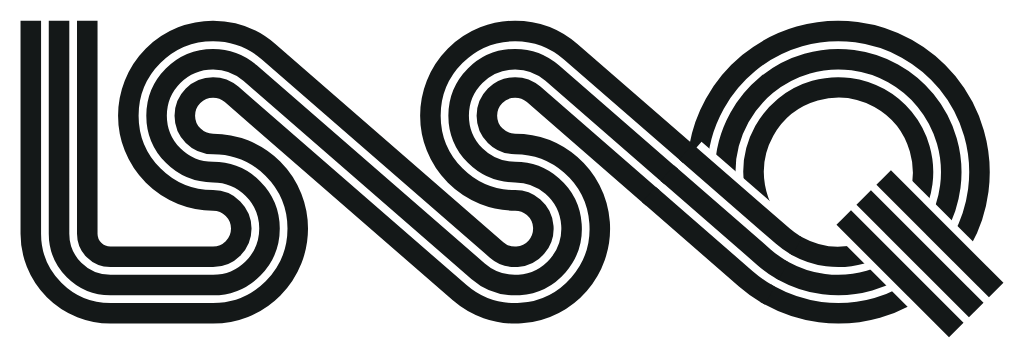
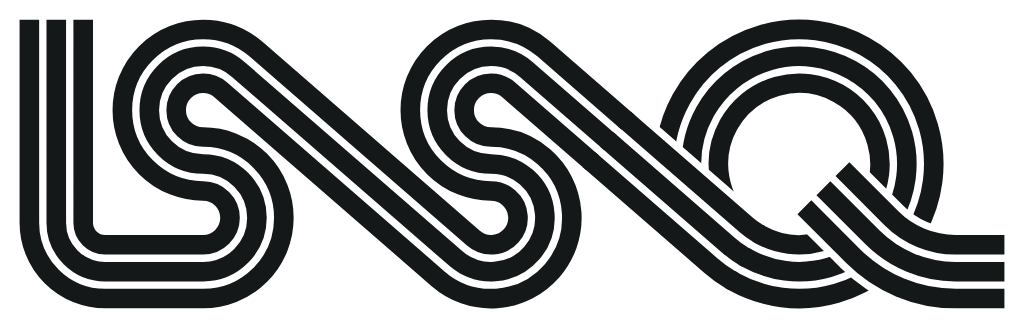
Polish mark F: clean Q end, curved tail, glint ending (#5)
From Steve's notes on F:
- The bowl's end now stops on one straight edge under the link, so the
  pink stripe no longer ends in a stepped point.
- The Q's tail crosses the bowl at 45 degrees, then curves down to run
  along the baseline, so the word ends the way the L starts.
- The bowl draws in completely before the tail sweeps over it. The cut
  under the tail now follows each tail stripe as it draws.
- Soft top-to-bottom gradients on each stripe in the color files.
- A glint runs across the finished word and a star twinkles on the
  tail's end, so it's clear the animation is over.
- Faster: each stripe writes the word in 2.7s (was 3.6s), about 5s total.

diff --git a/prototypes/logo-marks/index.html b/prototypes/logo-marks/index.html
@@ -312,14 +312,14 @@ footer p{margin:0;color:var(--muted)}
 
   <section class="opt" id="stripes">
     <div class="stage wordmark">
-      <img data-replay src="../../brand/marks/f-stripes-animated.svg" alt="Stripe Letters: LSSQ written in one continuous ribbon of pink, yellow and cyan stripes, each letter flowing into the next">
+      <img data-replay src="../../brand/marks/f-stripes-animated.svg" alt="Stripe Letters: LSSQ written in one continuous ribbon of pink, yellow and cyan stripes, each letter flowing into the next, with the Q's tail curving out along the baseline">
       <button type="button" class="replay">Play it again</button>
     </div>
     <div class="info">
       <p class="letter">Option F &middot; New</p>
       <h2>Stripe Letters</h2>
-      <p class="idea">LSSQ written in one unbroken ribbon of three stripes, like a 70s racing stripe that never lifts off. Each stripe writes the whole word in turn.</p>
-      <p>There's no outline: where the Q crosses itself, the ribbon underneath is cut away, so it works in one ink too. The stripes stay parallel through every curve, so the same set works on its own as dividers, borders and corners. It's a wordmark, so A still covers avatars and the browser tab.</p>
+      <p class="idea">LSSQ written in one unbroken ribbon of three stripes, like a 70s racing stripe that never lifts off. Each stripe writes the whole word in turn, then a glint runs across it.</p>
+      <p>There's no outline: where the Q crosses itself, the ribbon underneath is cut away, so it works in one ink too. The Q's tail curves down onto the baseline, so the word ends the way the L starts. The stripes stay parallel through every curve, so the same set works on its own as dividers, borders and corners. It's a wordmark, so A still covers avatars and the browser tab.</p>
       <ul class="sizes" aria-label="The same stripes as decoration">
         <li><img class="band" src="../../brand/marks/f-stripe-band.svg" alt=""><small>Divider</small></li>
         <li><img class="corner" src="../../brand/marks/f-stripe-corner.svg" alt=""><small>Corner</small></li>

diff --git a/presentations/2026-11-04-logo-marks/index.html b/presentations/2026-11-04-logo-marks/index.html
@@ -289,7 +289,7 @@ h2 { font-size: 52px; font-weight: 900; line-height: 1.04; text-wrap: balance; }
 
       <section class="slide mark wordmark" aria-label="Slide 8 of 9: Option F, Stripe Letters" hidden>
         <div class="panel">
-          <img class="big wide" data-replay src="../../brand/marks/f-stripes-animated.svg" alt="Stripe Letters: LSSQ written in one continuous ribbon of pink, yellow and cyan stripes, each letter flowing into the next">
+          <img class="big wide" data-replay src="../../brand/marks/f-stripes-animated.svg" alt="Stripe Letters: LSSQ written in one continuous ribbon of pink, yellow and cyan stripes, each letter flowing into the next, with the Q's tail curving out along the baseline">
           <button type="button" class="replay">Play it again</button>
           <ul class="deco" aria-label="The same stripes as decoration">
             <li><img class="band" src="../../brand/marks/f-stripe-band.svg" alt=""><small>Divider</small></li>
@@ -301,7 +301,7 @@ h2 { font-size: 52px; font-weight: 900; line-height: 1.04; text-wrap: balance; }
           <p class="kicker sun">Option F &middot; New</p>
           <h2>Stripe Letters</h2>
           <p class="idea">LSSQ written in one unbroken ribbon of three stripes, like a 70s racing stripe that never lifts off.</p>
-          <div class="point"><p class="label cyan">Why it could work</p><p>The most retro of the six. Each stripe writes the whole word in turn, it holds up in one ink, and the same stripes make borders and dividers.</p></div>
+          <div class="point"><p class="label cyan">Why it could work</p><p>The most retro of the six. Each stripe writes the word in turn, then a glint runs across it. It holds up in one ink, and the same stripes make borders and dividers.</p></div>
           <div class="point"><p class="label pink">Watch out</p><p>It's a wordmark, so it's too wide for avatars. Pair it with A there.</p></div>
         </div>
       </section>

diff --git a/tools/make-stripes.py b/tools/make-stripes.py
@@ -5,9 +5,9 @@ The whole word is one centre line made of straight runs and circular turns:
 down the L, along the baseline into the first S, out of its top and straight
 down into the second S, the same again into the Q, and round the bowl. Every
 stripe is that centre line offset to one side, so the stripes stay parallel
-through every curve. Where one part of the ribbon passes over another, the
-part underneath is cut away, so the mark needs no outline and works in one
-colour.
+through every curve. The Q's tail is a second, short ribbon that sweeps out
+over the bowl. Where one part passes over another, the part underneath is cut
+away, so the mark needs no outline and works in one colour.
 Run from anywhere:
 
     python3 tools/make-stripes.py
@@ -23,8 +23,12 @@ from math import cos, sin, tan, radians, pi
 from pathlib import Path
 
 INK = "#141818"
+CREAM = "#FFF6E8"
 # Stripe colours, from the right-hand side of the ribbon to the left.
 COLORS = ["#E2397A", "#F2C230", "#36E2E6"]
+# In colour, each stripe fades from a lighter tint at the top of the letters to
+# a deeper shade at the baseline, like an airbrushed 80s sign.
+SHADES = [("#E96598", "#D31F64"), ("#F5D060", "#EAB40F"), ("#63E9EC", "#1BD4D8")]
 W, GAP = 8, 3                    # stripe width and the clear gap between stripes
 PITCH = W + GAP
 HALF = (len(COLORS) * W + (len(COLORS) - 1) * GAP) / 2   # half the ribbon's width
@@ -34,8 +38,9 @@ R = H / 4                        # S bowl radius
 CORNER = 20                      # L corner radius
 Q = H / 2                        # Q bowl radius
 
-DRAW, STAGGER = 3.6, 0.6         # seconds for one stripe to write the word, and between stripes
-TAILT = 0.6                      # seconds for the Q's tail, once a stripe reaches the end
+DRAW, STAGGER = 2.7, 0.4         # seconds for one stripe to write the word, and between stripes
+TAILT, TAILGAP = 0.45, 0.07      # seconds for each stripe of the Q's tail, and between them
+SHINE, SPARK = 0.8, 0.7          # the glint across the finished word, and the star that ends it
 
 
 def left(h):
@@ -159,17 +164,20 @@ xS2 = xS1 + 2 * R / tan(radians(LINK / 2))
 DIAG = 2 * R * (1 + cos(radians(LINK))) / sin(radians(LINK))      # S to S
 QDIAG = ((Q - R) + (Q + R) * cos(radians(LINK))) / sin(radians(LINK))   # S to Q
 xQ = xS2 + (R + Q) * sin(radians(LINK)) + QDIAG * cos(radians(LINK))
-LEAD = 50                        # how much of the link into the Q passes over the bowl's end
+LEAD = 66                        # how much of the link into the Q passes over the bowl's end
 
 
 def word():
-    """The word as one stroke, and the parts of it that pass over another part."""
+    """The word as one stroke, the part of it that passes over the bowl's end,
+    and the part of the link cut away under it."""
     s = (Stroke(xL, -HALF, 90)
          .run(H - CORNER + HALF).turn(CORNER, 90, "L").run(xS1 - xL - CORNER)   # L
          .turn(R, 180, "L").turn(R, 180 + LINK, "R")                            # first S
          .run(DIAG)
          .turn(R, 180 + LINK, "L").turn(R, 180 + LINK, "R")                     # second S
          .run(QDIAG - LEAD))
+    # The cut starts far enough back that the bowl's end meets one straight edge
+    # all the way across, and the copy drawn on top covers both ends of the cut.
     a = s.mark()
     s.run(2)
     k0 = s.mark()
@@ -178,10 +186,18 @@ def word():
     s.turn(Q, 2, "L")
     b = s.mark()
     s.turn(Q, 348, "L")          # round the bowl, ending tucked under the link
-    ux, uy = cos(radians(45)), sin(radians(45))
-    tail = Stroke(xQ + 14 * ux, Q + 14 * uy, 45).run(62)
-    return s, (a, b), (k0, k1), tail
+    return s, (a, b), (k0, k1)
 
+
+TAIL_R, TAIL_OUT = 48, 20        # the tail's turn radius, and how far it runs on along the baseline
+
+
+def tail():
+    """The Q's tail: out of the bowl's counter and across it at 45 degrees, then
+    curving down to run along the baseline, so the word ends the way the L starts."""
+    c = cos(radians(45))
+    run = (H - Q - 14 * c - TAIL_R * (1 - c)) / c      # lands the tail on the baseline
+    return Stroke(xQ + 14 * c, Q + 14 * c, 45).run(run).turn(TAIL_R, 45, "L").run(TAIL_OUT)
 
 # A hidden path sits a little past the end of its dash, so no sliver of it shows
 # at either end. The gap in the dash pattern is longer than any path.
@@ -201,60 +217,113 @@ def keyframes(name, lo=0.0, hi=1.0, steps=30):
     return f"@keyframes {name}{{{''.join(frames)}}}"
 
 
+def star(x, y, r):
+    """A four-pointed glint centred on (x, y)."""
+    k = r * 0.16
+    return (f"M{x:.2f} {y - r:.2f}Q{x + k:.2f} {y - k:.2f} {x + r:.2f} {y:.2f}"
+            f"Q{x + k:.2f} {y + k:.2f} {x:.2f} {y + r:.2f}Q{x - k:.2f} {y + k:.2f} {x - r:.2f} {y:.2f}"
+            f"Q{x - k:.2f} {y - k:.2f} {x:.2f} {y - r:.2f}Z")
+
+
 def wordmark(animated=False, mono=False):
-    s, (a, b), (k0, k1), tail = word()
+    s, (a, b), (k0, k1) = word()
+    t = tail()
     link = s.slice(a, b)
-    pts = [p for d in (-HALF, HALF) for stroke in (s, tail) for p in stroke.points(d)]
+    pts = [p for d in (-HALF, HALF) for stroke in (s, t) for p in stroke.points(d)]
     pad = 8
     x0, y0 = min(p[0] for p in pts) - pad, min(p[1] for p in pts) - pad
     x1, y1 = max(p[0] for p in pts) + pad, max(p[1] for p in pts) + pad
     box = f'x="{x0:.2f}" y="{y0:.2f}" width="{x1 - x0:.2f}" height="{y1 - y0:.2f}"'
-    colors = [INK] * len(COLORS) if mono else COLORS
     dl = ' pathLength="1"' if animated else ""
-    cut = f'stroke="#000" stroke-width="{2 * (HALF + GAP):g}"'
+    n = len(COLORS)
+
+    defs = []
+    if mono:
+        paints = [INK] * n
+    else:
+        paints = [f"url(#f-g{i})" for i in range(n)]
+        for i, (base, (light, deep)) in enumerate(zip(COLORS, SHADES)):
+            defs.append(f'    <linearGradient id="f-g{i}" gradientUnits="userSpaceOnUse" x1="0" y1="{-HALF:g}" x2="0" y2="{H + HALF:g}">'
+                        f'<stop offset="0" stop-color="{light}"/><stop offset=".45" stop-color="{base}"/>'
+                        f'<stop offset="1" stop-color="{deep}"/></linearGradient>')
 
     # The ribbon is drawn once under a mask that cuts it away wherever another
-    # part passes over it, then those parts are drawn again on top.
-    body = [
-        "  <defs>",
-        f'    <mask id="f-under" maskUnits="userSpaceOnUse" {box}>',
-        f'      <rect {box} fill="#fff"/>',
-        f'      <path class="cut c0"{dl} d="{s.slice(k0, k1).path()}" {cut}/>',
-        f'      <path class="cut c1"{dl} d="{tail.path()}" {cut}/>',
-        "    </mask>",
-        "  </defs>",
-        '  <g mask="url(#f-under)">',
-    ]
-    for i, (color, d) in enumerate(zip(colors, offsets())):
-        body.append(f'    <path class="st s{i}"{dl} d="{s.path(d)}" stroke="{color}" stroke-width="{W:g}"/>')
-    body.append("  </g>")
-    for part, stroke in (("ov", link), ("tl", tail)):
-        for i, (color, d) in enumerate(zip(colors, offsets())):
-            body.append(f'  <path class="st {part} s{i}"{dl} d="{stroke.path(d)}" stroke="{color}" stroke-width="{W:g}"/>')
+    # part passes over it, then those parts are drawn again on top. The tail's
+    # cut follows each of its stripes, so the bowl stays whole until the tail
+    # is drawn over it.
+    defs += [f'    <mask id="f-under" maskUnits="userSpaceOnUse" {box}>',
+             f'      <rect {box} fill="#fff"/>',
+             f'      <path class="cut c0"{dl} d="{s.slice(k0, k1).path()}" stroke="#000" stroke-width="{2 * (HALF + GAP):g}"/>']
+    for i, d in enumerate(offsets()):
+        defs.append(f'      <path class="cut tl s{i}"{dl} d="{t.path(d)}" stroke="#000" stroke-width="{W + 2 * GAP:g}"/>')
+    defs.append("    </mask>")
+
+    def stripes(part, stroke, paint=None, indent="  "):
+        cls = f"st {part} " if part else "st "
+        return [f'{indent}<path class="{cls}s{i}"{dl} d="{stroke.path(d)}" stroke="{paint or paints[i]}" stroke-width="{W:g}"/>'
+                for i, d in enumerate(offsets())]
+
+    body = ['  <g mask="url(#f-under)">', *stripes("", s, indent="    "), "  </g>",
+            *stripes("ov", link), *stripes("tl", t)]
 
     style = ""
     if animated:
-        # Each stripe writes the whole word, then the Q's tail, one stripe after
-        # another. The copy of the link over the Q is drawn in step with the pen.
-        rules = [f".st,.cut{{stroke-dasharray:1 2;stroke-dashoffset:{HIDE};animation:draw {DRAW}s linear forwards}}",
-                 keyframes("draw"),
-                 f".tl,.c1{{animation-duration:{TAILT}s}}"]
+        # Once the word is written, a glint runs across it and a star twinkles
+        # at the end of the tail. Both draw on a white copy of the word.
+        tx, ty, _ = t.states()[-1]
+        sx, sy, sr = tx - 4, ty - HALF, pad + 3        # on the tail's top corner, inside the frame
+        lit = ['    <mask id="f-lit" maskUnits="userSpaceOnUse" {box}>'.replace("{box}", box),
+               '      <g mask="url(#f-under)">',
+               *[f'        <path d="{s.path(d)}" stroke="#fff" stroke-width="{W:g}"/>' for d in offsets()],
+               "      </g>",
+               *[f'      <path d="{stroke.path(d)}" stroke="#fff" stroke-width="{W:g}"/>' for stroke in (link, t) for d in offsets()],
+               "    </mask>",
+               '    <linearGradient id="f-glint"><stop offset="0" stop-color="#fff" stop-opacity="0"/>'
+               '<stop offset=".5" stop-color="#fff" stop-opacity=".6"/><stop offset="1" stop-color="#fff" stop-opacity="0"/></linearGradient>',
+               f'    <radialGradient id="f-glow"><stop offset="0" stop-color="{CREAM}" stop-opacity=".9"/>'
+               f'<stop offset="1" stop-color="{CREAM}" stop-opacity="0"/></radialGradient>']
+        defs += lit
+        gw, skew = 38, 22
+        lean = (y1 - y0) * tan(radians(skew))
+        gx = x0 - gw - lean - 4
+        travel = (x1 - x0) + gw + 2 * lean + 8
+        body += ['  <g mask="url(#f-lit)">',
+                 f'    <g transform="skewX(-{skew})"><rect class="glint" x="{gx + y1 * tan(radians(skew)):.2f}" y="{y0:.2f}" width="{gw}" height="{y1 - y0:.2f}" fill="url(#f-glint)"/></g>',
+                 "  </g>",
+                 f'  <g class="spark"><circle cx="{sx:.2f}" cy="{sy:.2f}" r="{sr * 0.55:.2f}" fill="url(#f-glow)"/>'
+                 f'<path d="{star(sx, sy, sr)}" fill="{CREAM}"/></g>']
+
+        # Each stripe writes the whole word, one stripe after another, with the
+        # copy of the link over the Q drawn in step with the pen. Then the tail
+        # sweeps over the finished bowl, its cut keeping pace with it.
+        word_end = DRAW + (n - 1) * STAGGER
+        tail_end = word_end + (n - 1) * TAILGAP + TAILT
+        glint_at = tail_end - 0.15
+        rules = [f".st,.cut{{stroke-dasharray:1 2;stroke-dashoffset:{HIDE}}}",
+                 f".st{{animation:draw {DRAW}s linear forwards}}",
+                 keyframes("draw")]
         for i, d in enumerate(offsets()):
             whole = s.length(d)
             rules.append(f".s{i}{{animation-delay:{i * STAGGER:.2f}s}}")
             rules.append(f".ov.s{i}{{animation-name:ov{i}}}")
             rules.append(keyframes(f"ov{i}", s.length(d, a) / whole, s.length(d, b) / whole))
-            rules.append(f".tl.s{i}{{animation-delay:{i * STAGGER + DRAW:.2f}s}}")
+            rules.append(f".tl.s{i}{{animation:tail {TAILT}s cubic-bezier(.3,.5,.3,1) {word_end + i * TAILGAP:.2f}s forwards}}")
         whole = s.length()
-        rules.append(".c0{animation-name:c0}")
+        rules.append(f".c0{{animation:c0 {DRAW}s linear forwards}}")
         rules.append(keyframes("c0", s.length(0, k0) / whole, s.length(0, k1) / whole))
-        rules.append(f".c1{{animation-delay:{DRAW:.2f}s}}")
-        rules.append("@media (prefers-reduced-motion:reduce){.st,.cut{animation:none;stroke-dashoffset:0}}")
+        rules.append(f"@keyframes tail{{from{{stroke-dashoffset:{HIDE}}}to{{stroke-dashoffset:0}}}}")
+        rules.append(f".glint{{animation:glint {SHINE}s cubic-bezier(.45,0,.55,1) {glint_at:.2f}s both}}")
+        rules.append(f"@keyframes glint{{to{{transform:translateX({travel:.2f}px)}}}}")
+        rules.append(f".spark{{opacity:0;transform-box:fill-box;transform-origin:center;"
+                     f"animation:spark {SPARK}s ease-out {glint_at + SHINE * 0.6:.2f}s both}}")
+        rules.append("@keyframes spark{0%{opacity:1;transform:scale(0) rotate(-45deg)}"
+                     "40%{opacity:1;transform:scale(1) rotate(0deg)}100%{opacity:0;transform:scale(.2) rotate(30deg)}}")
+        rules.append("@media (prefers-reduced-motion:reduce){.st,.cut{animation:none;stroke-dashoffset:0}.glint,.spark{animation:none}}")
         style = "  <style>" + "".join(rules) + "</style>\n"
 
     title = "LSSQ mark F: Stripe Letters" + (" (one colour)" if mono else "") + (" (animated)" if animated else "")
     return (f'<svg xmlns="http://www.w3.org/2000/svg" viewBox="{x0:.2f} {y0:.2f} {x1 - x0:.2f} {y1 - y0:.2f}" fill="none">\n'
-            f"  <title>{title}</title>\n{style}" + "\n".join(body) + "\n</svg>\n")
+            f"  <title>{title}</title>\n{style}  <defs>\n" + "\n".join(defs) + "\n  </defs>\n" + "\n".join(body) + "\n</svg>\n")
 
 
 def decoration(stroke, viewbox, title):

diff --git a/AGENTS.md b/AGENTS.md
@@ -62,6 +62,7 @@ Steve also wants a regular check-in with Jake. Setting that up is Steve's job.
 | Steve's first review notes (A, D, new E) | Done | See Decisions |
 | Striped LSSQ wordmark (F), with animation and decorations | Done | `brand/marks/f-*.svg`, `tools/make-stripes.py` |
 | F reworked into one ribbon: three thicker stripes, no black, slower animation, one-color version | Done | Same files, plus `f-stripes-mono.svg` |
+| F polished: clean Q bowl end, curved tail, gradients, glint and sparkle ending, a bit faster | Done | Same files |
 | Public repo and project site | Done | This repo, GitHub Pages |
 | Logo marks review deck | Done | `presentations/2026-11-04-logo-marks/` |
 | Steve reviews each mark and picks a direction | **Waiting on Steve** | Deck slide 9 has a "Your call" column |
@@ -85,7 +86,7 @@ All six keep LSSQ's colors. SVGs are in `brand/marks/`, PNG exports in `brand/ma
 | C, Four Pillars | `c-four-pillars.svg` | A compass star, one point per pillar (pink music, yellow play, cyan wellness, lavender connection). | Tells the whole LSSQ story; colors can carry into the site. | Hard to print in one ink; needs a one-color version. |
 | D, Last Saturday Patch | `d-patch.svg` (full), `d-sunset.svg` (small) | A striped sunset over mountains with the road in, ringed like a camp patch. | Most outdoors and nomad. Small version is just the sunset. | The full patch's text is too small for avatars. |
 | E, Record Sunset | `e-record-sunset.svg` | A's record sets like a sun behind pink mountains, in a cyan arch that reads LAST SATURDAY, under a yellow SIDE QUEST banner like today's. Cream die-cut border. | Made for stickers and embroidered patches: thick outlines, flat colors, big type. Steve loves the badge idea. | Merch only. Pair it with A for avatars and the browser tab. |
-| F, Stripe Letters | `f-stripes.svg`, `f-stripes-animated.svg`, `f-stripes-mono.svg` | LSSQ written in one unbroken ribbon of three stripes (pink, yellow, cyan), like a 70s racing stripe that never lifts off. The L runs along the baseline into the first S, and each S's top runs straight down into the next letter. | The most retro option. In the animated file each stripe writes the whole word in turn. No outline, so it works in one ink, and the same stripes make decorations (`f-stripe-band.svg`, `f-stripe-corner.svg`). | A wordmark, so too wide for avatars. Pair it with A. |
+| F, Stripe Letters | `f-stripes.svg`, `f-stripes-animated.svg`, `f-stripes-mono.svg` | LSSQ written in one unbroken ribbon of three stripes (pink, yellow, cyan), like a 70s racing stripe that never lifts off. The L runs along the baseline into the first S, each S's top runs straight down into the next letter, and the Q's tail curves out along the baseline. | The most retro option. In the animated file each stripe writes the whole word in turn, then a glint runs across it. No outline, so it works in one ink, and the same stripes make decorations (`f-stripe-band.svg`, `f-stripe-corner.svg`). | A wordmark, so too wide for avatars. Pair it with A. |
 
 The starting recommendation is **A for the mark and E for stickers and patches**, with F as a possible wordmark and decoration. It isn't decided; Steve picks. Mixes are fine (for example, A in C's four colors).
 
@@ -93,10 +94,11 @@ The starting recommendation is **A for the mark and E for stickers and patches**
 
 F is generated, not drawn by hand. Edit `tools/make-stripes.py` (letter shapes, stripe colors, widths) and run `python3 tools/make-stripes.py`, then `zsh tools/export-marks.sh`. The whole word is one center line of straight runs and circular turns, and each stripe is that line offset to one side, so the stripes stay parallel through every curve.
 
-- **Shape:** down the L, along the baseline into the first S, out of its top and straight down into the second S, then the same into the Q. The links run at 41 degrees, the angle that just clears each S's lower bowl, and that sets the letter spacing. The Q's bowl closes by tucking under the link, and its tail crosses over the bowl.
-- **Crossings without black:** the ribbon is drawn once under an SVG mask that cuts it away wherever another part passes over it (the link into the Q and the tail), then those parts are drawn again on top. That's what lets the gaps stay see-through and the one-color version work.
+- **Shape:** down the L, along the baseline into the first S, out of its top and straight down into the second S, then the same into the Q. The links run at 41 degrees, the angle that just clears each S's lower bowl, and that sets the letter spacing. The Q's bowl closes by tucking under the link, all three stripes stopping on one straight edge. Its tail crosses the bowl at 45 degrees, then curves down to run along the baseline, so the word ends the way the L starts.
+- **Crossings without black:** the ribbon is drawn once under an SVG mask that cuts it away wherever another part passes over it (the link into the Q and the tail), then those parts are drawn again on top. That's what lets the gaps stay see-through and the one-color version work. The cut under the link starts far enough back that the bowl's end meets one straight edge, and the cut under the tail follows each tail stripe as it draws, so the bowl stays whole until the tail covers it.
 - **Stripe spec:** three stripes, each 8 units wide, with a 3-unit clear gap between them and no outline. On a straight run, top to bottom: cyan, yellow, pink. Cap height is 88 units on the center line.
-- **Animation:** every path in `f-stripes-animated.svg` has `pathLength="1"` and a CSS dash animation inside the file, so it plays even as a plain `<img>`. Each stripe takes 3.6 seconds to write the word, 0.6 seconds after the last, then draws the Q's tail; about 5.4 seconds in all. It respects reduced motion. To replay it, reload the image with a new query string (the deck does this when you land on the slide).
+- **Color:** in the color files, each stripe fades from a lighter tint at the top of the letters to a deeper shade at the baseline (the shades are `SHADES` in the generator). The one-color version and the decorations stay flat.
+- **Animation:** every path in `f-stripes-animated.svg` has `pathLength="1"` and a CSS dash animation inside the file, so it plays even as a plain `<img>`. Each stripe takes 2.7 seconds to write the word, 0.4 seconds after the last. Once the bowl is complete, the tail sweeps over it, a glint runs across the word, and a star twinkles on the end of the tail and fades, so it's clear it's over. About 5 seconds in all. It respects reduced motion. To replay it, reload the image with a new query string (the deck does this when you land on the slide).
 - **Decoration in CSS:** for a quick divider without the SVG, `background: linear-gradient(#36E2E6 0 8px, transparent 8px 11px, #F2C230 11px 19px, transparent 19px 22px, #E2397A 22px 30px);` on a 30px-tall element.
 
 ### Centering lettering
@@ -191,6 +193,7 @@ Edit the `<!-- Keep this card pointed at whatever is being worked on right now. 
 | Nov 4, 2026 | Steve's first notes: make A's tonearm smaller and look like an arm with a needle, not a pill; center D's lettering in the pink ring; he loves the badge idea, so add one made for stickers and patches (became E). All three are done. |
 | Nov 4, 2026 | Steve asked for an LSSQ letters option that feels like one set of multicolored stripes, very retro, in the same colors, that can animate stripe by stripe and double as decoration (became F). |
 | Nov 4, 2026 | Steve's notes on F: remove the black, connect all the letters as organically as possible, slow the animation, thicker lines (three stripes is fine), and make it one shape that works in black and white. Done: one continuous ribbon, three stripes, no outline, about 5.4 seconds. Looping the ribbon over and under the second S was tried and dropped because it read as "LS3P". |
+| Nov 4, 2026 | Steve's second notes on F: fix the pointed pink end where the bowl tucks under the link, curve the tail, add a tasteful vintage look (he loves the animation, it reminds him of 80s PBS idents), speed it up a bit, draw the whole bowl before the tail covers it, and end clearly. Done: one straight edge for the bowl's end, a tail that lands on the baseline, soft gradients, a glint and a closing star, about 5 seconds. |
 
 ## Open questions
 
